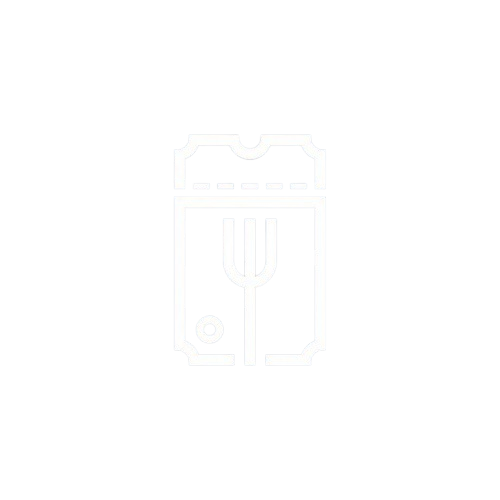
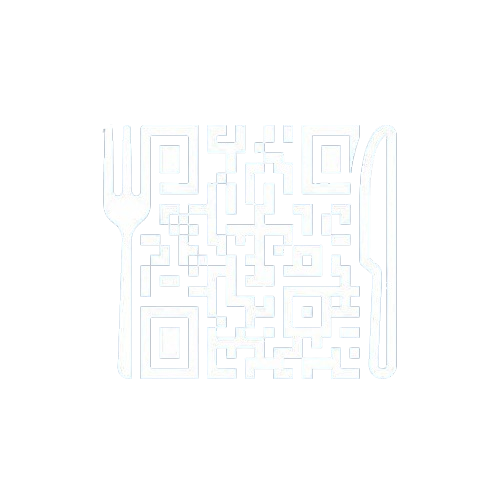
splash screen c

diff --git a/Final/components/AnimatedSplashScreen.tsx b/Final/components/AnimatedSplashScreen.tsx
@@ -69,7 +69,7 @@ export default function AnimatedSplashScreen({ isLoading, children }: AnimatedSp
                 <Animated.View style={[styles.content, { transform: [{ scale }] }]}>
                     {/* Brand Icon */}
                     <Image
-                        source={require('../assets/splash-icon.png')}
+                        source={require('../assets/splash-new-v2.png')}
                         style={styles.logo}
                         resizeMode="contain"
                     />
@@ -107,13 +107,13 @@ const styles = StyleSheet.create({
     brandText: {
         fontSize: 48,
         fontWeight: 'bold',
-        color: '#FFFFFF',
+        color: '#FFFFFF', // White Text
         letterSpacing: 1,
         marginBottom: 8,
     },
     tagline: {
         fontSize: 16,
-        color: '#FFD700', // Gold for premium feel
+        color: '#FFD700', // Gold Tagline
         fontWeight: '500',
         letterSpacing: 2,
         textTransform: 'uppercase',

diff --git a/Final/app/(auth)/signup.tsx b/Final/app/(auth)/signup.tsx
@@ -66,7 +66,7 @@ export default function SignupScreen() {
                 {/* Logo Section */}
                 <View style={styles.header}>
                     <Image
-                        source={require('../../assets/splash-icon.png')}
+                        source={require('../../assets/splash-new-v2.png')}
                         style={styles.logo}
                         resizeMode="contain"
                     />

diff --git a/Final/app/(auth)/login.tsx b/Final/app/(auth)/login.tsx
@@ -48,7 +48,7 @@ export default function LoginScreen() {
                 {/* Logo Section */}
                 <View style={styles.header}>
                     <Image
-                        source={require('../../assets/splash-icon.png')}
+                        source={require('../../assets/splash-new-v2.png')}
                         style={styles.logo}
                         resizeMode="contain"
                     />
